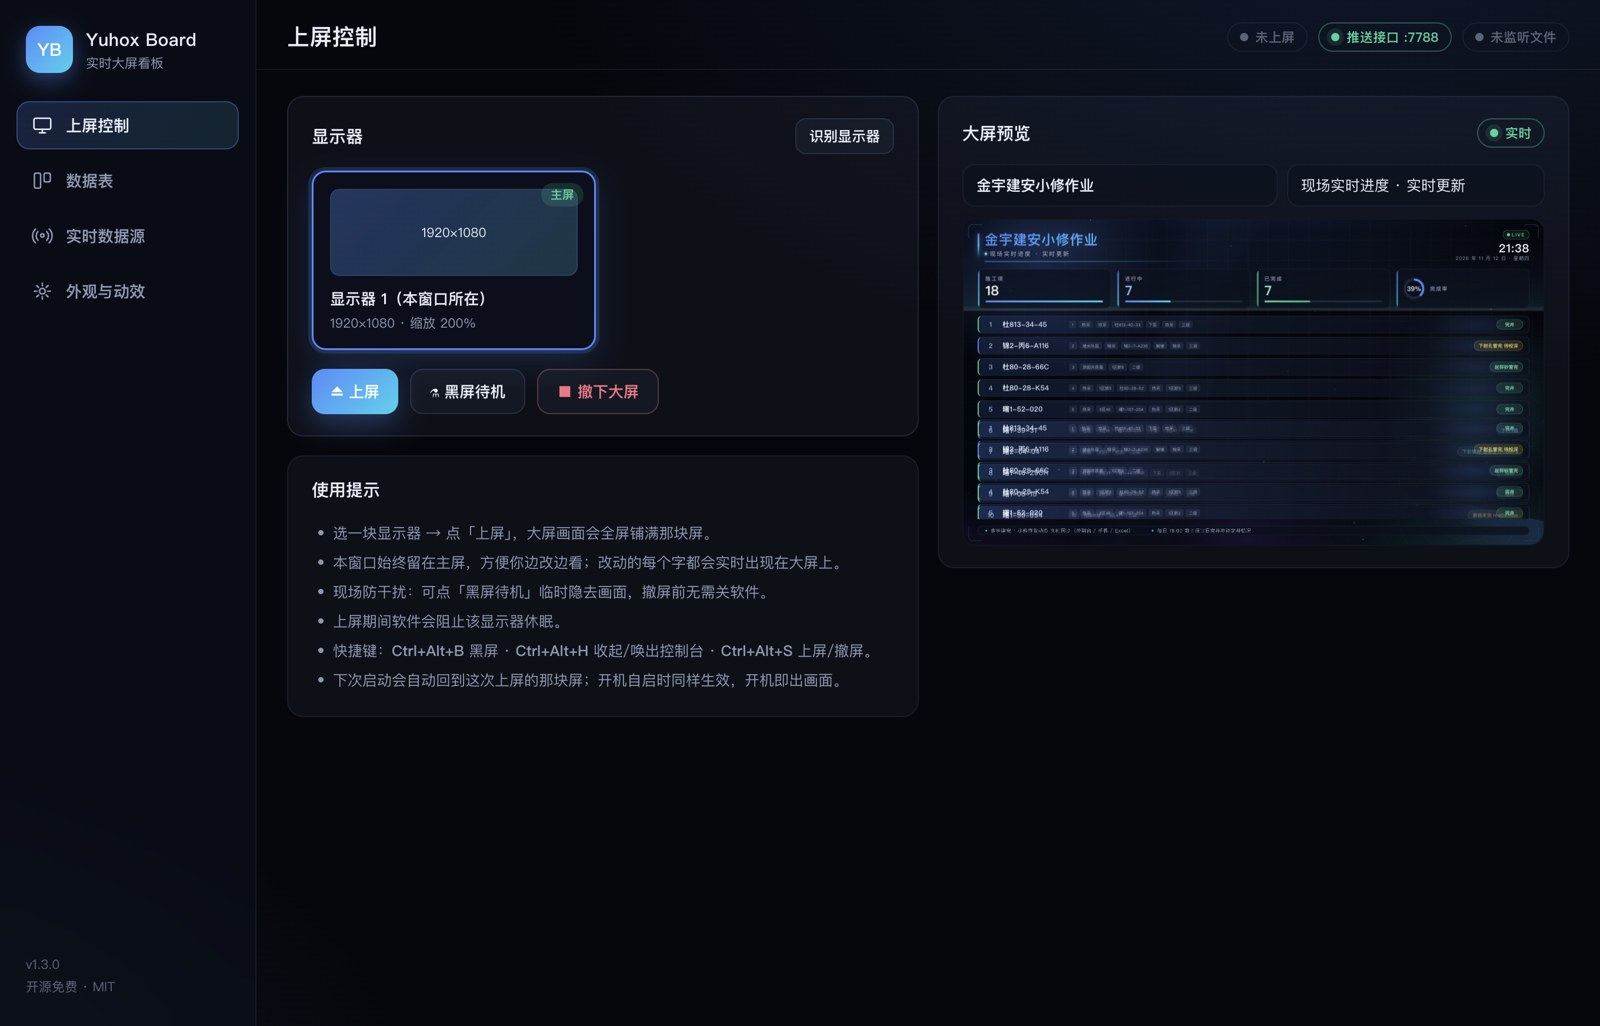
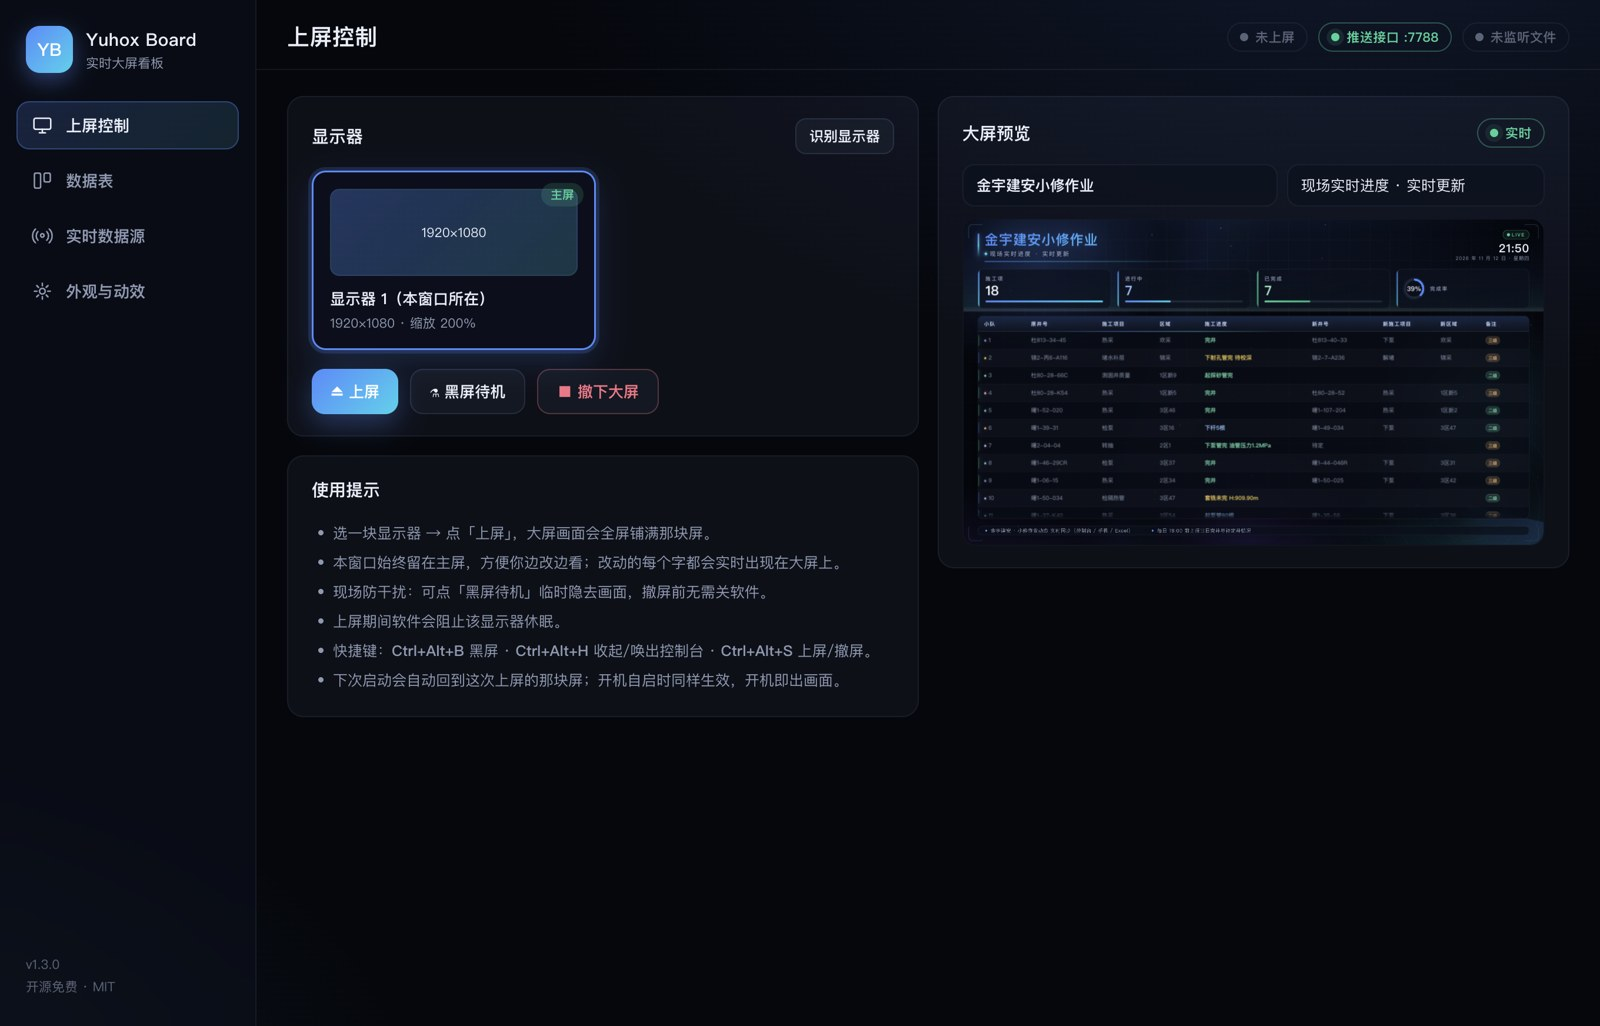
feat: v1.3.1 默认带表头整表 + 状态/等级/小队配色 + 整表拖动排序

Changed region(s): [[0.5938, 0.3119, 0.7812, 0.5302], [0.8125, 0.3119, 0.9688, 0.5302], [0.8125, 0.3743, 0.8438, 0.4055]]

diff --git a/src/renderer/output/output.js b/src/renderer/output/output.js
@@ -287,6 +287,20 @@ function cellTag(col) {
   return '<div class="td txt"></div>';
 }
 
+/* ── 颜色分类：同一个值永远同一个颜色，用来区分等级、小队 ── */
+const PALETTE = ['#7dd3fc', '#a78bfa', '#fcd34d', '#6ee7b7', '#f9a8d4', '#93c5fd', '#fdba74', '#c4b5fd'];
+
+function toneFor(v) {
+  let h = 0;
+  for (const ch of String(v)) h = (h * 31 + ch.codePointAt(0)) >>> 0;
+  return PALETTE[h % PALETTE.length];
+}
+
+function rgbaOf(hex, a) {
+  const n = parseInt(hex.slice(1), 16);
+  return `rgba(${(n >> 16) & 255},${(n >> 8) & 255},${n & 255},${a})`;
+}
+
 function fillCell(cell, col, row, i, opts) {
   const v = row.cells ? row.cells[col.key] : '';
   if (col.type === 'index') {
@@ -305,8 +319,33 @@ function fillCell(cell, col, row, i, opts) {
     return;
   }
   const text = String(v == null ? '' : v);
-  if (cell.textContent !== text) cell.textContent = text;
+
+  if (opts.kind === 'tag') {
+    // 等级 / 备注：带色小标签，同一取值颜色固定
+    if (cell.dataset.v !== text) {
+      cell.dataset.v = text;
+      if (!text) cell.innerHTML = '';
+      else {
+        const c = toneFor(text);
+        cell.innerHTML = `<span class="tag" style="color:${c};background:${rgbaOf(c, 0.14)};border-color:${rgbaOf(c, 0.34)}">${escapeHtml(text)}</span>`;
+      }
+    }
+  } else if (opts.kind === 'team') {
+    if (cell.dataset.v !== text) {
+      cell.dataset.v = text;
+      const c = toneFor(text);
+      cell.innerHTML = text
+        ? `<span class="dot" style="background:${c};box-shadow:0 0 8px ${rgbaOf(c, 0.6)}"></span><span>${escapeHtml(text)}</span>`
+        : '';
+    }
+  } else {
+    if (cell.textContent !== text) cell.textContent = text;
+    if (cell.dataset.v) { delete cell.dataset.v; }
+  }
+
   cell.classList.toggle('primary', opts.primary);
+  if (opts.state) cell.dataset.state = opts.state;
+  else if (cell.dataset.state) delete cell.dataset.state;
   if (opts.changed) flash(cell);
 }
 
@@ -346,12 +385,15 @@ function renderTable(b) {
   const primary = primaryTextKey(cols);
   const pcol = cols.find((c) => c.type === 'progress') || null;
   const scol = pcol ? null : (cols.find((c) => c.type === 'text' && /进度|状态|情况/.test(c.label)) || null);
+  const tagCol = cols.find((c) => c.type === 'text' && /备注|等级|级别/.test(c.label)) || null;
+  const teamCol = cols.find((c) => c.type === 'text' && /小队|队伍|班组/.test(c.label)) || null;
 
   const existing = new Map();
   for (const el of [...scroll.children]) {
     if (el.dataset.rid) existing.set(el.dataset.rid, el);
   }
   const keep = new Set();
+  bindRowDrag(scroll.parentElement, '.tr');   // 整表也能按住行拖动排序
 
   rows.forEach((r, i) => {
     keep.add(r.id);
@@ -364,6 +406,7 @@ function renderTable(b) {
       el.style.animationDelay = (Math.min(i, 14) * 0.035) + 's';
       el.innerHTML = cols.map(cellTag).join('');
       el.dataset.sig = sig;
+      el.draggable = true;
       scroll.appendChild(el);
     }
 
@@ -380,7 +423,14 @@ function renderTable(b) {
       const v = c.type === 'index' ? i : (r.cells ? r.cells[c.key] : '');
       now[c.key] = v;
       const changed = !isNew && knownRows.has(r.id) && prev[c.key] !== v;
-      fillCell(cell, c, r, i, { primary: c.key === primary, changed });
+      const kind = tagCol && c.key === tagCol.key ? 'tag'
+        : (teamCol && c.key === teamCol.key ? 'team' : null);
+      let state = null;
+      if (scol && c.key === scol.key) {
+        const sv = String(r.cells ? r.cells[c.key] || '' : '');
+        state = /待|未完/.test(sv) ? 'todo' : (/完/.test(sv) ? 'done' : 'doing');
+      }
+      fillCell(cell, c, r, i, { primary: c.key === primary, changed, kind, state });
     });
     lastCells.set(r.id, now);
     // 行首光条跟随进度状态：完成变绿，其余用主题色
@@ -464,7 +514,7 @@ function renderList(b) {
   const existing = new Map();
   for (const el of [...scroll.children]) if (el.dataset.rid) existing.set(el.dataset.rid, el);
   const keep = new Set();
-  bindListDrag(scroll);
+  bindRowDrag(boardEl, '.row-ob');   // 绑在 boardEl 上，克隆出来的滚动段也能拖
 
   rows.forEach((r, i) => {
     keep.add(r.id);
@@ -541,13 +591,13 @@ function reorderRows(fromId, toId, after) {
   if (window.yuhox) window.yuhox.setBoard({ rows });
 }
 
-function bindListDrag(scroll) {
-  if (scroll.dataset.dragBound) return;
-  scroll.dataset.dragBound = '1';
+function bindRowDrag(container, rowSel) {
+  if (!container || container.dataset.dragBound) return;
+  container.dataset.dragBound = '1';
   let dragId = null;
 
   const clearMarks = () => {
-    scroll.querySelectorAll('.drop-before, .drop-after').forEach((n) => {
+    container.querySelectorAll('.drop-before, .drop-after').forEach((n) => {
       n.classList.remove('drop-before', 'drop-after');
     });
   };
@@ -555,11 +605,11 @@ function bindListDrag(scroll) {
     dragId = null;
     marqueeHold = false;
     clearMarks();
-    scroll.querySelectorAll('.dragging').forEach((n) => n.classList.remove('dragging'));
+    container.querySelectorAll('.dragging').forEach((n) => n.classList.remove('dragging'));
   };
 
-  scroll.addEventListener('dragstart', (e) => {
-    const row = e.target.closest('.row-ob');
+  container.addEventListener('dragstart', (e) => {
+    const row = e.target.closest(rowSel);
     if (!row || !window.yuhox) return;
     dragId = row.dataset.rid;
     row.classList.add('dragging');
@@ -568,9 +618,9 @@ function bindListDrag(scroll) {
     try { e.dataTransfer.setData('text/plain', dragId); } catch (_) {}
   });
 
-  scroll.addEventListener('dragover', (e) => {
+  container.addEventListener('dragover', (e) => {
     if (!dragId) return;
-    const row = e.target.closest('.row-ob');
+    const row = e.target.closest(rowSel);
     if (!row) return;
     e.preventDefault();
     e.dataTransfer.dropEffect = 'move';
@@ -580,9 +630,9 @@ function bindListDrag(scroll) {
     if (row.dataset.rid !== dragId) row.classList.add(after ? 'drop-after' : 'drop-before');
   });
 
-  scroll.addEventListener('drop', (e) => {
+  container.addEventListener('drop', (e) => {
     if (!dragId) return;
-    const row = e.target.closest('.row-ob');
+    const row = e.target.closest(rowSel);
     if (!row) return;
     e.preventDefault();
     const rect = row.getBoundingClientRect();
@@ -593,9 +643,9 @@ function bindListDrag(scroll) {
     reorderRows(from, to, after);
   });
 
-  scroll.addEventListener('dragend', end);
-  scroll.addEventListener('dragleave', (e) => {
-    if (!scroll.contains(e.relatedTarget)) clearMarks();
+  container.addEventListener('dragend', end);
+  container.addEventListener('dragleave', (e) => {
+    if (!container.contains(e.relatedTarget)) clearMarks();
   });
 }
 

diff --git a/src/renderer/output/output.css b/src/renderer/output/output.css
@@ -628,7 +628,10 @@ body { overflow: hidden; }
 .row-ob .pct { min-width: 0; }
 
 /* 拖动排序 */
-.row-ob.dragging { opacity: .45; cursor: grabbing; }
+.row-ob.dragging, .tr.dragging { opacity: .45; cursor: grabbing; }
+.tr.drop-before, .row-ob.drop-before { box-shadow: inset 0 2px 0 0 var(--ob-accent2); }
+.tr.drop-after, .row-ob.drop-after { box-shadow: inset 0 -2px 0 0 var(--ob-accent2); }
+.tbl-body .tr { cursor: grab; }
 .row-ob.drop-before { box-shadow: inset 0 2px 0 0 var(--ob-accent2); }
 .row-ob.drop-after { box-shadow: inset 0 -2px 0 0 var(--ob-accent2); }
 .board.list.status-mode .row-ob { cursor: grab; }
@@ -849,6 +852,30 @@ body { overflow: hidden; }
 }
 .td.prog.done .pct { color: var(--st-done); }
 .td.prog.idle .pct { color: var(--faint); }
+
+/* 状态文字配色：完成绿 / 待办黄 / 进行蓝 */
+.td[data-state="done"], .td.primary[data-state="done"] { color: #6ee7b7; }
+.td[data-state="todo"], .td.primary[data-state="todo"] { color: #fcd34d; }
+.td[data-state="doing"], .td.primary[data-state="doing"] { color: #93c5fd; }
+
+/* 取值标签（备注 / 等级）与小队色点 */
+.td .tag {
+  display: inline-block;
+  padding: 0 calc(var(--u) * .5);
+  border-radius: 999px;
+  border: 1px solid transparent;
+  font-size: calc(var(--u) * 1.02);
+  font-weight: 700;
+  line-height: 1.62;
+}
+.td .dot {
+  display: inline-block;
+  width: calc(var(--u) * .46);
+  height: calc(var(--u) * .46);
+  border-radius: 50%;
+  margin-right: calc(var(--u) * .5);
+  vertical-align: middle;
+}
 .td.flash { border-radius: 6px; animation: cellFlash 1.1s ease; }
 @keyframes cellFlash {
   0% { background: rgba(79, 140, 255, 0.30); }

diff --git a/src/main/store.js b/src/main/store.js
@@ -125,7 +125,7 @@ function sampleBoard() {
       zebra: true,
       autoScroll: true,
       scrollSpeed: 36,          // px/s，内容溢出时的自动滚动速度
-      layout: 'list',           // list(卡片看板，默认最好看) | table(整表)
+      layout: 'table',          // table(带表头的整表，默认) | list(竖向列表)
       fontScale: 1,             // 大屏字号缩放
       autoLaunch: true,         // 开机自动启动（默认开）
       autoRestoreOutput: true,  // 启动后自动回到上次上屏的那块屏

diff --git a/README.md b/README.md
@@ -12,7 +12,7 @@
 - 许可：MIT，商用免费，可二次开发
 - 依赖：无服务端、无账号、无联网要求，素材与数据全部本地
 
-![大屏竖向列表](docs/images/screen-list.jpg)
+![大屏整表](docs/images/screen-table.jpg)
 
 ## 它能做什么
 
@@ -23,8 +23,9 @@
 | 单元格类型 | 文本列 + 进度列（输入 0–100，大屏自动画进度条并按完成度标色）；进度列也可以直接填「完井 / 待定」这类状态文字 |
 | 手机遥控 | 同一 Wi-Fi 下手机浏览器打开即用，改状态、拖进度、改标题，无需装 App，可设口令 |
 | 三种实时数据通道 | 控制台手动编辑 / HTTP 接口推送 / JSON 文件监听，局域网任何机器都能推 |
-| 两种大屏版式 | 竖向列表（默认，一行一条，可直接拖动排序）、整表（多列明细，像 Excel） |
+| 两种大屏版式 | 整表（默认，带表头，一行一条可拖动排序）、竖向列表（更聚焦，一行一条） |
 | 自动滚动 | 内容超出屏高时首尾相连循环滚动，速度可调；拖动排序时自动暂停 |
+| 颜色分类 | 状态文字按完成/待办/进行上色，备注等级是彩色标签，小队带同色圆点 |
 | 输入自动补全 | 填过的井号、项目、区域自动记进历史，下次输入即刻联想 |
 | Excel 互通 | 一键导出（表头与列宽一并导出）；导入按表头自动匹配列，陌生列自动新建 |
 | 动态视觉 | 粒子与极光背景、流光光束、雷达环、扫描线、HUD 边角、标题扫光、行变更闪烁 |
@@ -33,9 +34,11 @@
 
 主标题、副标题随时可改，控制台顶部和大屏左侧两个输入框任选其一，改完即刻同步。
 
-默认是竖向列表，一行一条，待办 / 进行 / 完成用标签颜色区分；需要一次看全所有列时，切到「整表」版式：
+表格按状态上色：完成绿、待办黄、进行蓝；备注 / 等级是彩色小标签，小队前有同色圆点，同一取值颜色固定。
 
-![整表版式](docs/images/screen-table.jpg)
+需要更聚焦时切到「竖向列表」版式：一行一条，井号 + 项目/区域标签 + 右侧状态标签，还能直接拖动排序。
+
+![竖向列表](docs/images/screen-list.jpg)
 
 ![控制台](docs/images/control.jpg)
 

diff --git a/changelog/CHANGELOG-1.3.1.md b/changelog/CHANGELOG-1.3.1.md
@@ -1,0 +1,24 @@
+# 1.3.1
+
+按现场反馈调整默认画面：**回到带表头的整表**，并加上颜色分类。
+
+## 大屏默认版式
+
+- 默认用整表：表头 小队 / 原井号 / 施工项目 / 区域 / 施工进度 / 新井号 / 新施工项目 / 新区域 / 备注，一眼知道哪列是什么
+- 竖向列表保留为可选版式（设置里切），适合只盯井号和状态时用
+
+## 颜色分类
+
+- 施工进度按状态文字上色：**完成绿 / 待办黄 / 进行蓝**（「待」「未完」算待办，「完」算完成）
+- 备注、等级列渲染成彩色小标签，同一个取值永远同一个颜色，扫一眼能分出层级
+- 小队列前面加同色圆点，同类分组一眼可辨
+- 行首光条跟随状态：完成的行变绿
+
+## 交互
+
+- 整表也能**按住行直接拖动排序**，松手即落库；拖动时自动暂停滚动
+- 自动滚动仍是首尾相连，速度可调
+
+## 修复
+
+- 列表版式的自动滚动此前没有真正启动（选择器没包含容器自身），已修

diff --git a/changelog/CHANGELOG.md b/changelog/CHANGELOG.md
@@ -1,5 +1,12 @@
 # 更新日志
 
+## 1.3.1
+
+- 大屏默认改回**带表头的整表**，一眼看清是哪一列
+- 新增颜色分类：状态文字（完成绿 / 待办黄 / 进行蓝）、备注等级彩色标签、小队同色圆点
+- 整表支持按住行拖动排序，拖动时暂停滚动
+- 修复列表版式自动滚动没有启动的问题
+
 ## 1.3.0
 
 开箱数据与默认画面按现场报表重做。
